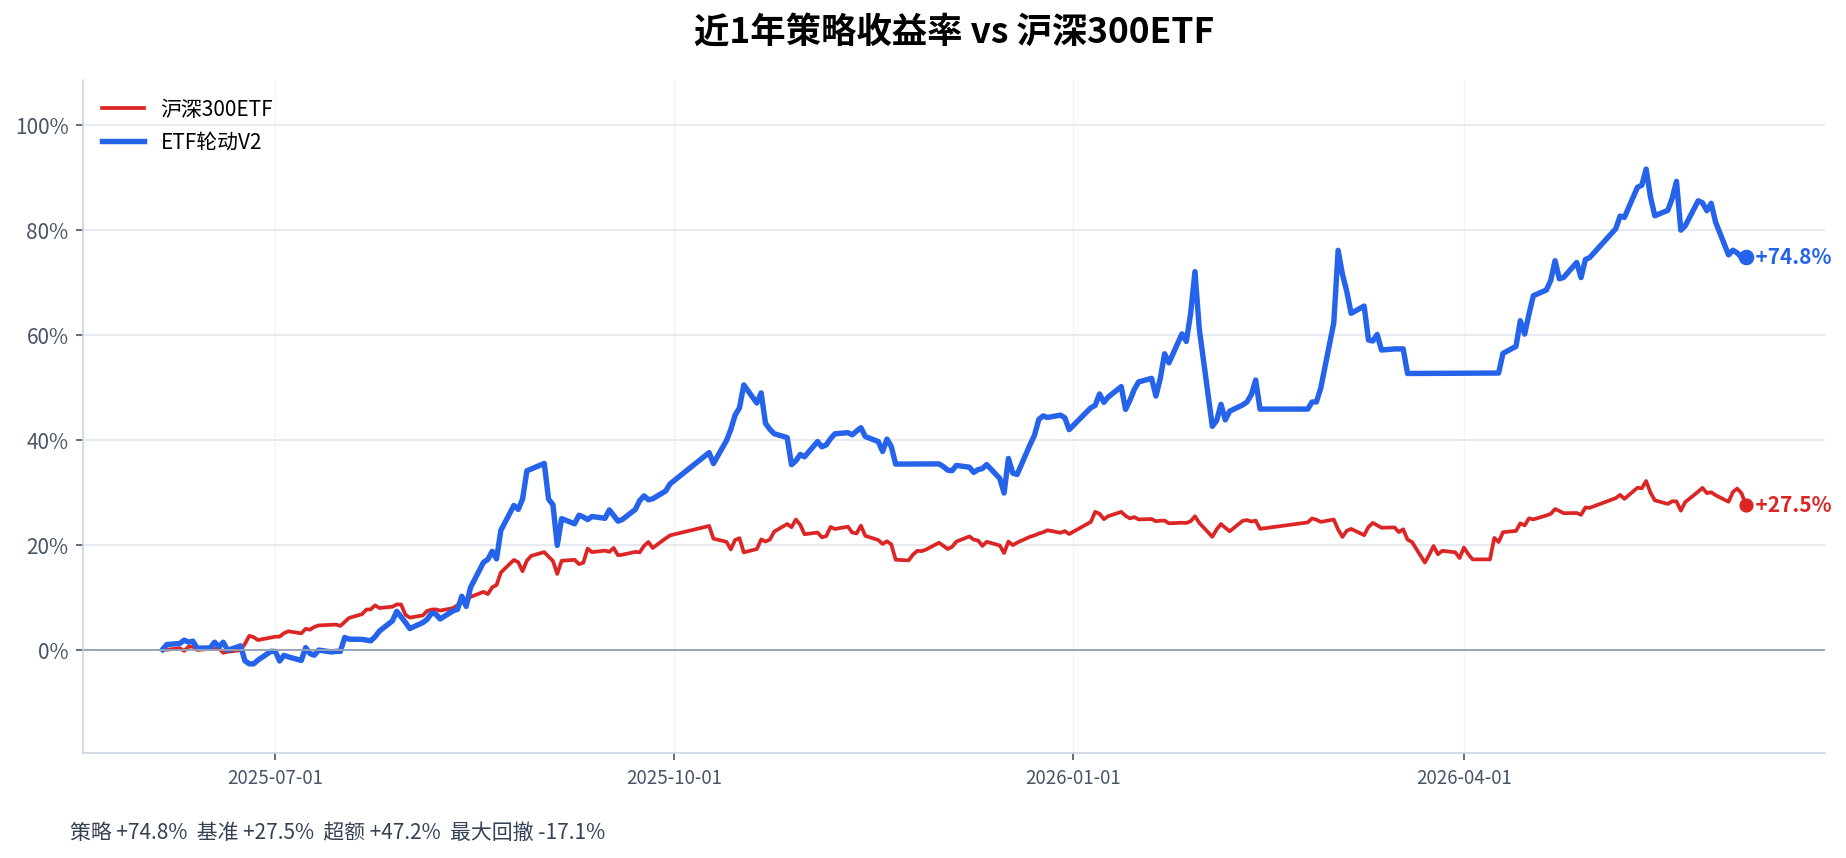
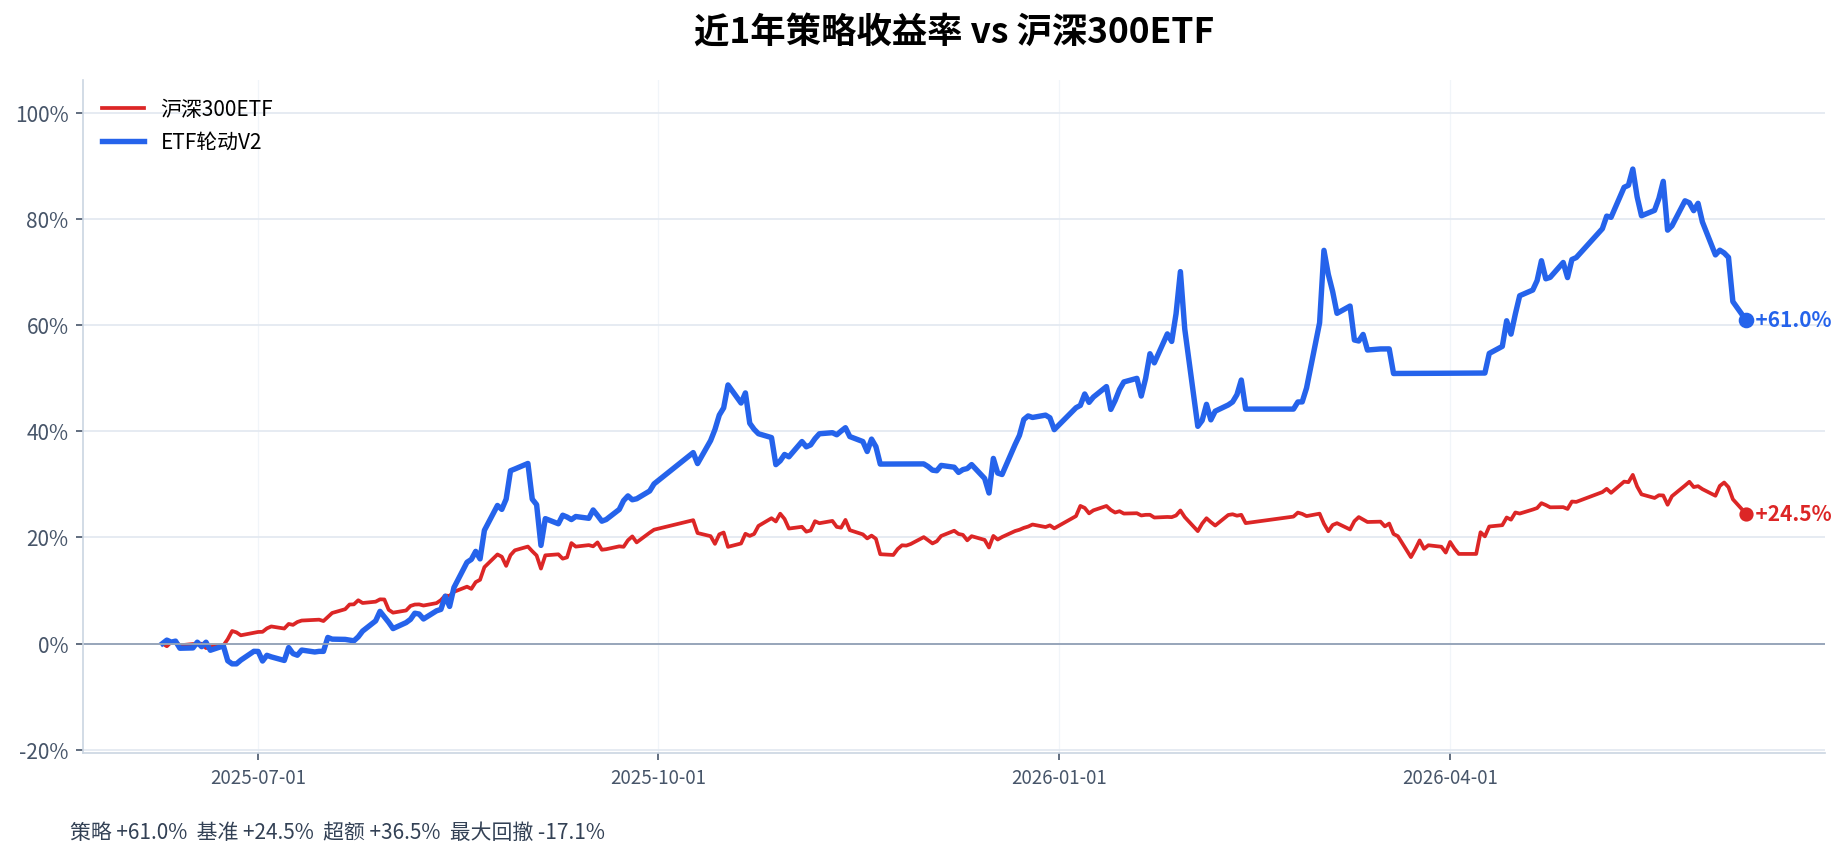
chore: archive ETF rotation V2 email run

diff --git a/data_state/etf_rotation_v2_email/latest/rotation/summary.md b/data_state/etf_rotation_v2_email/latest/rotation/summary.md
@@ -1,13 +1,12 @@
 # ETF Rotation Strategy V2
 
 - risk_candidates=5
-- qualified_candidates=2
-- selected=纳指ETF国泰
+- qualified_candidates=1
+- selected=国证成长100指数
 - selection_reason=top_ranked_risk_asset
 - data_status=ready
-- signal_date=2026-06-04
+- signal_date=2026-06-05
 
 ## Ranked Candidates
 
-- 纳指ETF国泰: score_25=1.249001 return_10d=0.033541
-- 国证成长100指数: score_25=1.214704 return_10d=0.124121
+- 国证成长100指数: score_25=1.006929 return_10d=0.042853

diff --git a/data_state/etf_rotation_v2_email/latest/backtest/backtest_summary.md b/data_state/etf_rotation_v2_email/latest/backtest/backtest_summary.md
@@ -1,11 +1,11 @@
 # ETF Rotation Backtest V2
 
 - start_date=2014-01-15
-- end_date=2026-06-08
-- trading_days=3025
-- trade_count=466
-- final_nav=38.294515
-- total_return=37.294515
-- annualized_return=0.354829
+- end_date=2026-06-09
+- trading_days=3026
+- trade_count=467
+- final_nav=35.683346
+- total_return=34.683346
+- annualized_return=0.346749
 - max_drawdown=-0.216032
-- win_rate=0.577253
+- win_rate=0.576017
